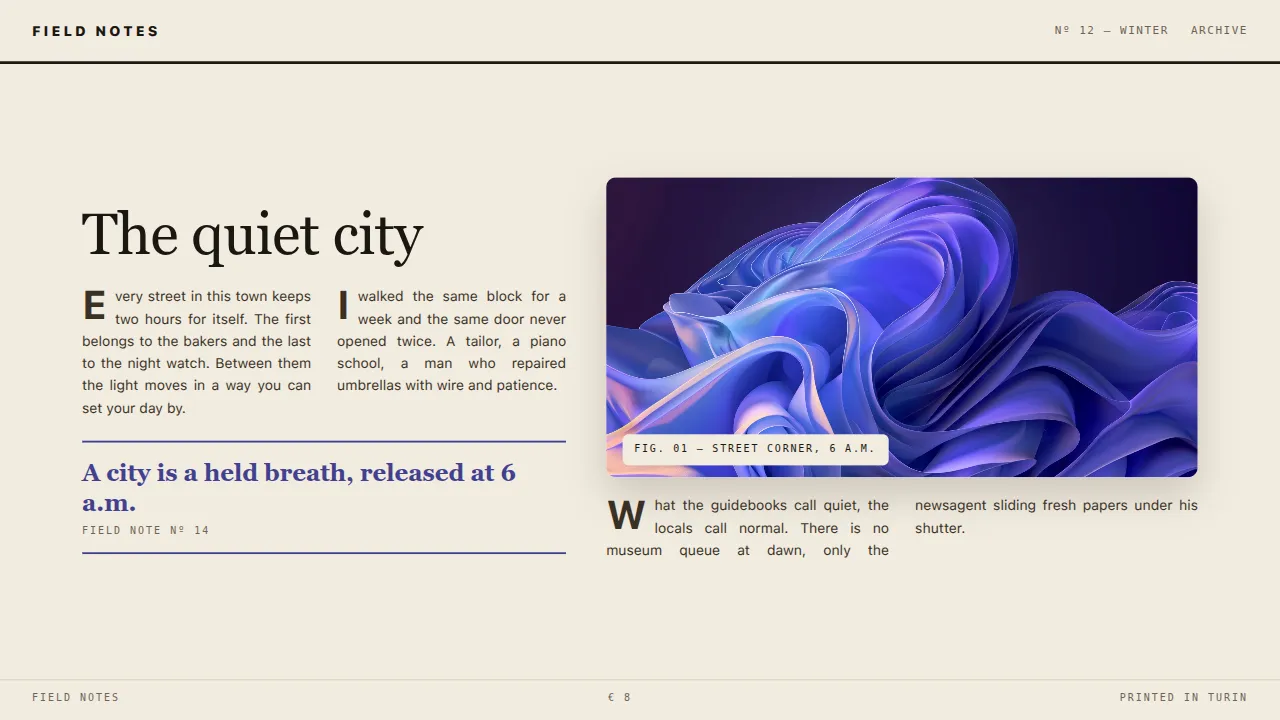
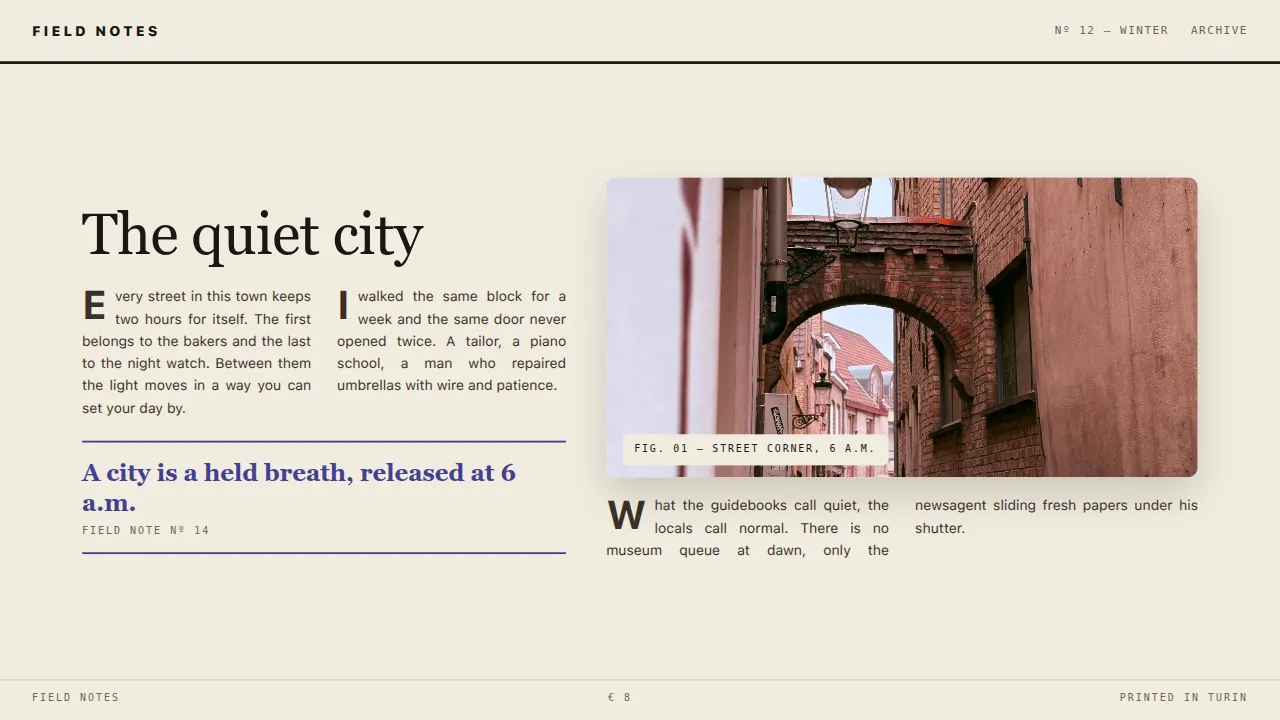
site: de-slop loop — real photography, non-generic hero, second critique applied
User called it slop; ran the critique loop. Pass 1 (assessment B): six example renders shipped with BROKEN hero images (src resolved to nonexistent site/assets/) — fixed via self-contained site/examples/assets/ and re-rendered with load verified. Pass 2 (user directive): real subject photography from Pexels (5 photos downloaded via the relay session, free license) replaced the abstract background art in the examples; hero de-genericized: left-aligned 2-line headline, mono eyebrow pill deleted (hero.md hard ban), magazines now cascade asymmetrically with the Detector issue overlapping the headline whitespace. Pass 3 (independent second critique): grid cut 10->6 cells with two stat cells (42 rules / 703 checks) ending the label wall and its duplication of #features; central landing window promoted to full-width dominant object; 'Start now' -> specific 'Install in 30 seconds'; irregular showcase stagger 0/34/12/40/8 with one tilted figure; hover color darkened to AA (3.14:1 -> 4.6:1); dead CSS removed. Detector 0 errors/0 warnings, tests 23/23, lint clean; desktop 8.5-9/10, mobile clean no overflow.

Changed region(s): [[0.4688, 0.2444, 0.9375, 0.6722]]

diff --git a/site/src/index.html b/site/src/index.html
@@ -52,41 +52,32 @@
 <section id="partner" class="partner-sec">
   <div class="wrap">
     <div class="p-top">
-      <div class="p-title">
-        <span class="sec-num">00 / THE PARTNER</span>
-        <p class="p-tagline"><span class="tg-serif">A freehand design partner</span> <span class="tg-black">for agents,</span> <span class="tg-serif">by designers.</span></p>
+      <div class="p-top-main">
         <h2 class="p-head">Keep the tell <span class="p-head-ser">out.</span></h2>
-        <p class="p-sub">Six real sites, one skill. Every layout below is built with the doctrine it links to, and checked by the detector before it shipped.</p>
-        <div class="p-actions"><a class="ghost" href="wiki.html">See the wiki</a></div>
+        <p class="p-sub">Six real sites, one skill — built with the doctrine they link to, checked by the detector before they shipped. A freehand partner for agents, by designers.</p>
+        <a class="ghost" href="wiki.html">See the wiki</a>
       </div>
-      <img class="mag mag-a" src="assets/mag-editions.webp" alt="Design Skill Editions, the detector issue" width="270" height="360">
-      <img class="mag mag-b" src="assets/mag-templates.webp" alt="Design Skill Editions, the checklist issue" width="270" height="360">
+      <div class="p-mags" aria-hidden="false">
+        <img class="mag mag-a" src="assets/mag-editions.webp" alt="Design Skill Editions, the detector issue" width="270" height="360">
+        <img class="mag mag-b" src="assets/mag-templates.webp" alt="Design Skill Editions, the checklist issue" width="270" height="360">
+      </div>
     </div>
     <div class="p-grid">
-      <div class="p-row p-row1">
-        <a class="p-cell" href="detector.html"><svg class="ic" viewBox="0 0 24 24" fill="none" stroke="currentColor" stroke-width="2" stroke-linecap="round" stroke-linejoin="round" aria-hidden="true"><path d="M3 7V5a2 2 0 0 1 2-2h2"/><path d="M17 3h2a2 2 0 0 1 2 2v2"/><path d="M21 17v2a2 2 0 0 1-2 2h-2"/><path d="M7 21H5a2 2 0 0 1-2-2v-2"/><line x1="7" x2="17" y1="12" y2="12"/></svg><span>Catch every <b>TELL</b></span></a>
-        <a class="p-cell" href="doctrine/deslop.html"><svg class="ic" viewBox="0 0 24 24" fill="none" stroke="currentColor" stroke-width="2" stroke-linecap="round" stroke-linejoin="round" aria-hidden="true"><path d="M12 20h9"/><path d="M16.5 3.5a2.1 2.1 0 0 1 3 3L7 19l-4 1 1-4Z"/></svg><span>De-slop <b>ANY PAGE</b></span></a>
-        <a class="p-cell" href="doctrine/colorize.html"><svg class="ic" viewBox="0 0 24 24" fill="none" stroke="currentColor" stroke-width="2" stroke-linecap="round" stroke-linejoin="round" aria-hidden="true"><path d="M12 3v3"/><path d="M12 18v3"/><path d="M3 12h3"/><path d="M18 12h3"/><path d="m5.6 5.6 2.1 2.1"/><path d="m16.3 16.3 2.1 2.1"/><path d="m18.4 5.6-2.1 2.1"/><path d="m7.7 16.3-2.1 2.1"/></svg><span>Craft the <b>PALETTE</b></span></a>
-        <a class="p-cell" href="doctrine/typeset.html"><svg class="ic" viewBox="0 0 24 24" fill="none" stroke="currentColor" stroke-width="2" stroke-linecap="round" stroke-linejoin="round" aria-hidden="true"><path d="M4 7V4h16v3"/><path d="M9 20h6"/><path d="M12 4v16"/></svg><span>Set the <b>TYPE SCALE</b></span></a>
-      </div>
-      <div class="p-row p-row2">
-        <a class="p-cell" href="doctrine/layout.html"><svg class="ic" viewBox="0 0 24 24" fill="none" stroke="currentColor" stroke-width="2" stroke-linecap="round" stroke-linejoin="round" aria-hidden="true"><rect x="3" y="3" width="18" height="18" rx="2"/><path d="M3 9h18"/><path d="M9 21V9"/></svg><span>Build the <b>GRID</b></span></a>
-        <a class="p-central" href="wiki.html">
-          <img src="assets/examples/the-landing.webp" alt="The design skill landing page, built by the skill it documents" width="400" height="225">
-          <span class="p-central-cap">The landing — built by the skill · see the process <span class="go">→</span></span>
-        </a>
-        <a class="p-cell" href="doctrine/animate.html"><svg class="ic" viewBox="0 0 24 24" fill="none" stroke="currentColor" stroke-width="2" stroke-linecap="round" stroke-linejoin="round" aria-hidden="true"><path d="M3 12a9 9 0 0 1 9-9 9.75 9.75 0 0 1 6.74 2.74L21 8"/><path d="M21 3v5h-5"/><path d="M21 12a9 9 0 0 1-9 9 9.75 9.75 0 0 1-6.74-2.74L3 16"/><path d="M8 16H3v5"/></svg><span>Pick the <b>MOTION</b></span></a>
-      </div>
-      <div class="p-row p-row3">
-        <a class="p-cell" href="doctrine/access.html"><svg class="ic" viewBox="0 0 24 24" fill="none" stroke="currentColor" stroke-width="2" stroke-linecap="round" stroke-linejoin="round" aria-hidden="true"><rect x="2" y="4" width="20" height="16" rx="2"/><path d="M2 10h20"/></svg><span>Fix the <b>ACCESSIBILITY</b></span></a>
-        <a class="p-cell" href="checklists.html"><svg class="ic" viewBox="0 0 24 24" fill="none" stroke="currentColor" stroke-width="2" stroke-linecap="round" stroke-linejoin="round" aria-hidden="true"><polyline points="9 11 12 14 22 4"/><path d="M21 12v7a2 2 0 0 1-2 2H5a2 2 0 0 1-2-2V5a2 2 0 0 1 2-2h11"/></svg><span>Ship the <b>PRE-FLIGHT</b></span></a>
-        <a class="p-cell" href="doctrine/live.html"><svg class="ic" viewBox="0 0 24 24" fill="none" stroke="currentColor" stroke-width="2" stroke-linecap="round" stroke-linejoin="round" aria-hidden="true"><rect x="2" y="4" width="20" height="16" rx="2"/><path d="M2 10h20"/><path d="M6 14h4"/></svg><span>Iterate <b>EASILY, LIVE</b></span></a>
-        <a class="p-cell" href="doctrine/hero.html"><svg class="ic" viewBox="0 0 24 24" fill="none" stroke="currentColor" stroke-width="2" stroke-linecap="round" stroke-linejoin="round" aria-hidden="true"><path d="M12 20h9"/><path d="M16.5 3.5a2.1 2.1 0 0 1 3 3L7 19l-4 1 1-4Z"/></svg><span>Design from a <b>CLEAN BRIEF</b></span></a>
-      </div>
+      <a class="p-cell" href="detector.html"><svg class="ic" viewBox="0 0 24 24" fill="none" stroke="currentColor" stroke-width="2" stroke-linecap="round" stroke-linejoin="round" aria-hidden="true"><path d="M3 7V5a2 2 0 0 1 2-2h2"/><path d="M17 3h2a2 2 0 0 1 2 2v2"/><path d="M21 17v2a2 2 0 0 1-2 2h-2"/><path d="M7 21H5a2 2 0 0 1-2-2v-2"/><line x1="7" x2="17" y1="12" y2="12"/></svg><span>Catch every <b>TELL</b></span></a>
+      <a class="p-cell p-stat" href="detector.html"><span class="st-n">42</span><span class="st-l">deterministic rules, no model</span></a>
+      <a class="p-cell" href="doctrine/deslop.html"><svg class="ic" viewBox="0 0 24 24" fill="none" stroke="currentColor" stroke-width="2" stroke-linecap="round" stroke-linejoin="round" aria-hidden="true"><path d="M12 20h9"/><path d="M16.5 3.5a2.1 2.1 0 0 1 3 3L7 19l-4 1 1-4Z"/></svg><span>De-slop <b>ANY PAGE</b></span></a>
+      <a class="p-cell" href="doctrine/colorize.html"><svg class="ic" viewBox="0 0 24 24" fill="none" stroke="currentColor" stroke-width="2" stroke-linecap="round" stroke-linejoin="round" aria-hidden="true"><path d="M12 3v3"/><path d="M12 18v3"/><path d="M3 12h3"/><path d="M18 12h3"/><path d="m5.6 5.6 2.1 2.1"/><path d="m16.3 16.3 2.1 2.1"/><path d="m18.4 5.6-2.1 2.1"/><path d="m7.7 16.3-2.1 2.1"/></svg><span>Craft the <b>PALETTE</b></span></a>
+      <a class="p-cell" href="doctrine/typeset.html"><svg class="ic" viewBox="0 0 24 24" fill="none" stroke="currentColor" stroke-width="2" stroke-linecap="round" stroke-linejoin="round" aria-hidden="true"><path d="M4 7V4h16v3"/><path d="M9 20h6"/><path d="M12 4v16"/></svg><span>Set the <b>TYPE SCALE</b></span></a>
+      <a class="p-cell p-stat" href="checklists.html"><span class="st-n">703</span><span class="st-l">checks · 110 checklists</span></a>
+      <a class="p-cell" href="checklists.html"><svg class="ic" viewBox="0 0 24 24" fill="none" stroke="currentColor" stroke-width="2" stroke-linecap="round" stroke-linejoin="round" aria-hidden="true"><polyline points="9 11 12 14 22 4"/><path d="M21 12v7a2 2 0 0 1-2 2H5a2 2 0 0 1-2-2V5a2 2 0 0 1 2-2h11"/></svg><span>Ship the <b>PRE-FLIGHT</b></span></a>
     </div>
-    <a class="p-band" href="#install">
-      <span class="p-band-t">Start now</span>
-      <span class="p-band-s">Install in 30 seconds · pi, opencode, claude-code, codex, cursor, gemini-cli · no model, no API key <span class="go">→</span></span>
+    <a class="p-window" href="wiki.html">
+      <img src="assets/examples/the-landing.webp" alt="The design skill landing page, built by the skill it documents" width="800" height="450">
+      <span class="p-window-cap">The landing — built by the skill it documents · see the process <span class="go">→</span></span>
+    </a>
+<a class="p-band" href="#install">
+      <span class="p-band-t">Install in 30 seconds</span>
+      <span class="p-band-s">pi · opencode · claude-code · codex · cursor · gemini-cli — no model, no API key <span class="go">→</span></span>
     </a>
     <div class="p-show">
       <div class="box-head"><span>Made with the skill</span><span>Five sites · 16:9</span></div>

diff --git a/site/src/site.css b/site/src/site.css
@@ -439,33 +439,30 @@ html.js .uc-card{transition:opacity .35s ease-out,transform .35s cubic-bezier(.2
 
 /* ---------- partner hook section (Keep Control lane) ---------- */
 .partner-sec{padding:112px 0 96px;border-bottom:1px solid var(--line)}
-.p-top{display:flex;align-items:flex-end;justify-content:space-between;gap:40px;margin-bottom:64px}
-.p-title{flex:1;text-align:center;order:0}
-.p-tagline{font-size:clamp(16px,1.6vw,21px);margin-top:20px}
-.p-tagline .tg-serif{font-family:"EB Garamond",Georgia,serif;color:var(--ink2);letter-spacing:.01em}
-.p-tagline .tg-black{font-family:var(--display);font-weight:900}
-.p-head{font-family:var(--display);font-weight:900;font-size:clamp(38px,5.4vw,74px);line-height:1.02;letter-spacing:-.02em;margin-top:10px}
-.p-head .p-head-ser{font-family:"EB Garamond",Georgia,serif;font-weight:400;color:var(--ink2);letter-spacing:-.01em}
-.p-sub{max-width:52ch;margin:18px auto 0;color:var(--ink2);font-size:16px}
-.p-actions{margin-top:24px}
-.mag{width:clamp(150px,16vw,262px);aspect-ratio:3/4;object-fit:cover;border-radius:4px;box-shadow:0 20px 44px rgba(20,18,15,.16);display:block}
-.mag-a{transform:rotate(-3deg);order:-1}
-.mag-b{transform:rotate(2.5deg);order:1}
-.p-grid{display:flex;flex-direction:column;gap:16px;margin-bottom:24px}
-.p-row{display:grid;gap:16px}
-.p-row1{grid-template-columns:repeat(4,1fr)}
-.p-row2{grid-template-columns:repeat(4,1fr)}
-.p-row3{grid-template-columns:repeat(4,1fr)}
+.p-top{display:flex;align-items:flex-start;justify-content:space-between;gap:0;padding:8px 0 24px;margin-bottom:56px}
+.p-top-main{flex:1;min-width:0}
+.p-head{font-family:var(--display);font-weight:900;font-size:clamp(44px,7.6vw,110px);line-height:.98;letter-spacing:-.03em;max-width:12ch}
+.p-head .p-head-ser{font-family:"EB Garamond",Georgia,serif;font-weight:400;color:var(--lime-deep);letter-spacing:-.01em}
+.p-sub{max-width:44ch;color:var(--ink2);font-size:17px;margin:34px 0 22px}
+.p-top .ghost{display:inline-block}
+.p-mags{display:flex;flex-direction:column;align-items:flex-end;gap:20px;margin-left:-210px;padding-top:110px}
+.mag{width:clamp(150px,15vw,250px);aspect-ratio:3/4;object-fit:cover;border-radius:4px;box-shadow:0 24px 52px rgba(20,18,15,.22);display:block}
+.mag-a{align-self:flex-start;transform:rotate(4deg)}
+.mag-b{align-self:flex-end;margin-right:0;margin-top:-90px;transform:rotate(-8deg);position:relative;z-index:0}
+.p-grid{display:grid;grid-template-columns:repeat(3,1fr);gap:16px;margin-bottom:24px}
 .p-cell{display:flex;align-items:center;gap:14px;border-top:2px solid var(--ink);padding:18px 4px 6px;text-decoration:none;color:var(--ink)}
-.p-cell:hover{color:var(--lime-deep)}
+.p-cell:hover{color:#5a8210}
 .p-cell .ic{width:22px;height:22px;color:var(--lime-deep);flex:none;margin-top:2px}
 .p-cell span{font:600 14px/1.35 var(--body);letter-spacing:.01em}
 .p-cell b{font-weight:800}
-.p-cell:hover b{color:var(--lime-deep)}
-.p-central{position:relative;border-radius:10px;overflow:hidden;background:var(--ink);display:flex;flex-direction:column;justify-content:flex-end;text-decoration:none;box-shadow:0 16px 36px rgba(20,18,15,.16);grid-column:span 2}
-.p-central img{width:100%;height:auto;aspect-ratio:16/9;object-fit:cover;display:block}
-.p-central-cap{font:10px var(--mono);letter-spacing:.16em;text-transform:uppercase;color:#d8e2cf;padding:12px 16px;background:var(--ink)}
-.p-central .go{color:var(--lime-deep)}
+.p-cell:hover b{color:#5a8210}
+.p-stat{flex-direction:column;align-items:flex-start;gap:4px}
+.p-stat .st-n{font:900 36px/1 var(--display);letter-spacing:-.02em}
+.p-stat .st-l{font:11px var(--mono);letter-spacing:.12em;color:var(--ink2);text-transform:uppercase}
+.p-window{position:relative;border-radius:10px;overflow:hidden;background:var(--ink);display:flex;flex-direction:column;text-decoration:none;box-shadow:0 20px 44px rgba(20,18,15,.18);margin-bottom:64px}
+.p-window img{width:100%;height:auto;aspect-ratio:16/9;object-fit:cover;display:block}
+.p-window-cap{font:10px var(--mono);letter-spacing:.16em;text-transform:uppercase;color:#d8e2cf;padding:13px 18px;background:var(--ink)}
+.p-window .go{color:var(--lime-deep)}
 .p-band{display:flex;align-items:center;justify-content:space-between;gap:24px;background:var(--lime);border-radius:10px;padding:22px 28px;text-decoration:none;color:var(--ink);margin-bottom:64px}
 .p-band:hover{background:#a4db26}
 .p-band-t{font:900 clamp(20px,2.2vw,28px)/1 var(--display);letter-spacing:.02em;text-transform:uppercase;white-space:nowrap}
@@ -473,19 +470,29 @@ html.js .uc-card{transition:opacity .35s ease-out,transform .35s cubic-bezier(.2
 .p-band .go{font:15px var(--mono)}
 .p-show{background:var(--white);border:1px solid var(--line);border-radius:10px;padding:24px}
 .box-head{display:flex;justify-content:space-between;gap:16px;font:11px var(--mono);letter-spacing:.18em;color:var(--ink2);text-transform:uppercase;margin-bottom:16px}
-.p-show-grid{display:grid;grid-template-columns:repeat(5,minmax(0,1fr));gap:16px}
+.p-show-grid{display:grid;grid-template-columns:repeat(5,minmax(0,1fr));gap:16px;align-items:start}
 .p-show-grid figure{margin:0}
+.p-show-grid figure:nth-child(2){margin-top:34px}
+.p-show-grid figure:nth-child(3){margin-top:12px}
+.p-show-grid figure:nth-child(4){margin-top:40px}
+.p-show-grid figure:nth-child(5){margin-top:8px}
+.p-show-grid figure:nth-child(3) img{transform:rotate(-1.4deg)}
 .p-show-grid img{width:100%;aspect-ratio:16/9;object-fit:cover;border-radius:6px;display:block}
 .p-show-grid figcaption{font:11px var(--mono);letter-spacing:.1em;color:var(--ink2);text-transform:uppercase;margin-top:10px;line-height:1.5}
 .p-show-grid figcaption small{display:block;color:var(--ink);font:600 13px var(--body);letter-spacing:0;text-transform:none}
 @media (max-width:960px){
-  .p-top{flex-direction:column;align-items:center;gap:36px}
-  .p-title{order:-1}
-  .mag{width:170px}
-  .p-row1,.p-row3{grid-template-columns:repeat(2,1fr)}
-  .p-row2{grid-template-columns:repeat(4,1fr)}
-  .p-row2 .p-central{grid-column:1/-1;order:-1}
+  .p-top{flex-direction:column;align-items:flex-start;gap:36px}
+  .p-mags{margin-left:0;padding-top:0;flex-direction:row;align-items:flex-start}
+  .p-mags .mag-b{margin-top:0}
+  .p-grid{grid-template-columns:repeat(2,1fr)}
   .p-band{flex-direction:column;align-items:flex-start;gap:12px}
+}
+@media (max-width:640px){
+  .p-grid{grid-template-columns:1fr}
+  .p-show-grid{grid-template-columns:repeat(2,minmax(0,1fr))}
+  .p-show-grid figure:nth-child(2),.p-show-grid figure:nth-child(3),.p-show-grid figure:nth-child(4),.p-show-grid figure:nth-child(5){margin-top:0}
+  .p-show-grid figure:nth-child(3) img{transform:none}
+  .p-band-s{line-height:1.5}
 }
 @media (max-width:640px){
   .p-row1,.p-row2,.p-row3{grid-template-columns:repeat(2,1fr)}

diff --git a/site/examples/atlas.html b/site/examples/atlas.html
@@ -35,8 +35,8 @@
       </div>
     </div>
     <div class="frame">
-      <img src="assets/atlas.webp" alt="Golden canyon walls in light beams — Backgrounds Supply freebie">
-      <div class="cap">Perplex canyon — route 03, golden hour</div>
+      <img src="assets/pexels-canyon.webp" alt="Golden light on Utah desert cliffs — Pexels photo">
+      <div class="cap">Canyonlands — route 03, golden hour</div>
     </div>
   </main>
   <div class="foot"><span>Atlas Expeditions</span><span>Oslo — Reykjavík</span><span>Since 2011</span></div>

diff --git a/site/examples/pulse.html b/site/examples/pulse.html
@@ -42,7 +42,7 @@
   <aside>
     <div class="logo">PULSE<i>.</i></div>
     <nav><a class="on">Overview</a><a>Campaigns</a><a>Audiences</a><a>Reports</a><a>Settings</a></nav>
-    <div class="mini"><img src="assets/pulse.webp" alt="Dark slate 3D valley — Backgrounds Supply freebie"></div>
+    <div class="mini"><img src="assets/pexels-desk.webp" alt="A minimal desk workspace — Pexels photo"></div>
   </aside>
   <div class="main">
     <div class="top">

diff --git a/site/examples/field-notes.html b/site/examples/field-notes.html
@@ -39,7 +39,7 @@
     </div>
     <div>
       <div class="plate">
-        <img src="assets/field-notes.webp" alt="Periwinkle fabric folds in soft light — Backgrounds Supply freebie">
+        <img src="assets/pexels-street.webp" alt="Cobblestone alley in Bruges at dawn — Pexels photo">
         <div class="cap">Fig. 01 — Street corner, 6 a.m.</div>
       </div>
       <div class="cols sub-cols">

diff --git a/site/examples/studio-noma.html b/site/examples/studio-noma.html
@@ -33,7 +33,7 @@
       </div>
     </div>
     <div class="plate">
-      <img src="assets/studio-noma.webp" alt="Dithered halftone portrait print — Backgrounds Supply freebie">
+      <img src="assets/pexels-studio.webp" alt="Sketches and proofs pinned to a studio wall — Pexels photo">
       <div class="cap">Field journal — Noma print, 2025</div>
     </div>
   </main>

diff --git a/site/examples/cafe-aurora.html b/site/examples/cafe-aurora.html
@@ -33,7 +33,7 @@
       </div>
     </div>
     <div class="frame">
-      <img src="assets/cafe-aurora.webp" alt="Warm amber marbled gradient — Backgrounds Supply freebie">
+      <img src="assets/pexels-cafe.webp" alt="Lamps over cafe tables at dusk — Pexels photo">
       <div class="cap">The morning counter — Aurora St 12, Turin</div>
     </div>
   </main>
